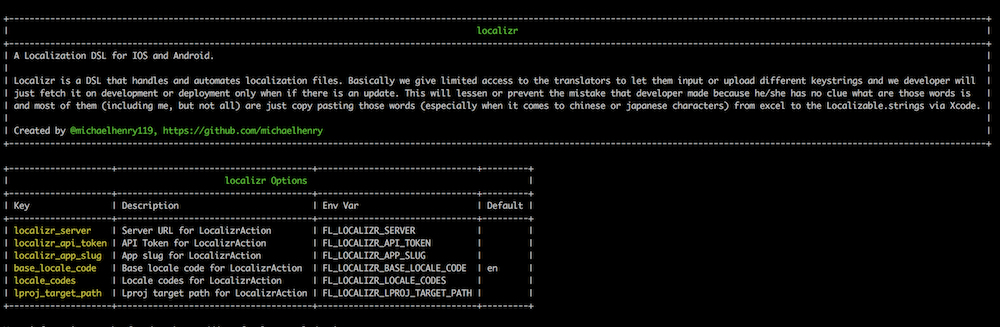
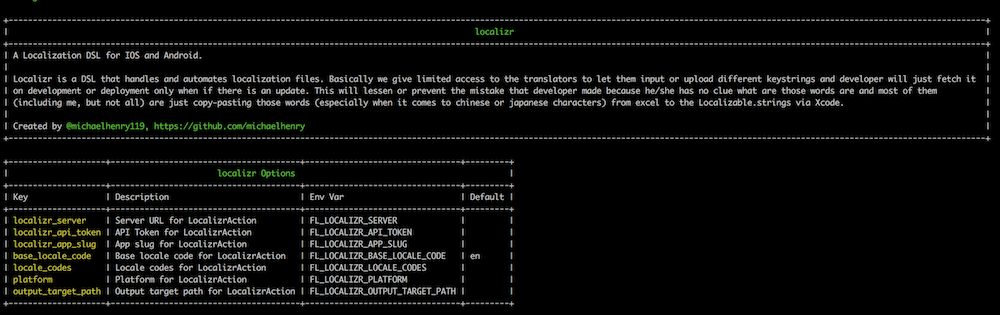
update readme  [ci skip]

diff --git a/README.md b/README.md
@@ -2,7 +2,7 @@
 
 [![Build Status](https://travis-ci.org/michaelhenry/Localizr.svg?branch=master)](https://travis-ci.org/michaelhenry/Localizr)
 
-Localizr is a DSL that handles and automates localization files. Basically we give limited access to the translators to let them input or upload different keystrings and we developer will just fetch it on development or deployment only when if there is an update or changes. This will lessen or prevent the mistake that developer made because he/she has no clue what are those words is and most of them (including me, but not all) are just copy pasting those words (especially when it comes to chinese or japanese characters) from excel to the Localizable.strings via Xcode.
+Localizr is a DSL that handles and automates localization files. Basically we give limited access to the translators to let them input or upload different keystrings and the developer will just fetch it on development or deployment only when if there is an update or changes. This will lessen or prevent the mistake that developer made because he/she has no clue what are those words are and most of them (including me, but not all) are just copy pasting those words (especially when it comes to chinese or japanese characters) from excel to the Localizable.strings via Xcode.
       
 
 ## Features
@@ -57,6 +57,7 @@ $ fastlane actions localizr
 ![fastlane actions localizr](docs/images/fastlane_actions_localizr.png)
 
 and configure it from your `Fastfile`
+
 ```ruby
 desc "Submit build to fabric."
 lane :alpha do
@@ -75,6 +76,18 @@ lane :alpha do
   crashlytics
 end
 ```
+You can also use environment variables if you dont want to configure it from Fastfile:
+
+```bash
+export FL_LOCALIZR_SERVER='http://your_localizr_server'
+export FL_LOCALIZR_API_TOKEN='your-auth-token-from-admin-page'
+export FL_LOCALIZR_APP_SLUG='your-app-slug'
+export FL_LOCALIZR_BASE_LOCALE_CODE='en'
+export FL_LOCALIZR_LOCALE_CODES='en,es,ja,zh,pt'
+export FL_LOCALIZR_PLATFORM='ios'
+export FL_LOCALIZR_OUTPUT_TARGET_PATH='ExampleApp'
+```
+
 
 ### S3 Configuration
 This is optional, but you can enable this by providing valid information for the following in the environment variables.
